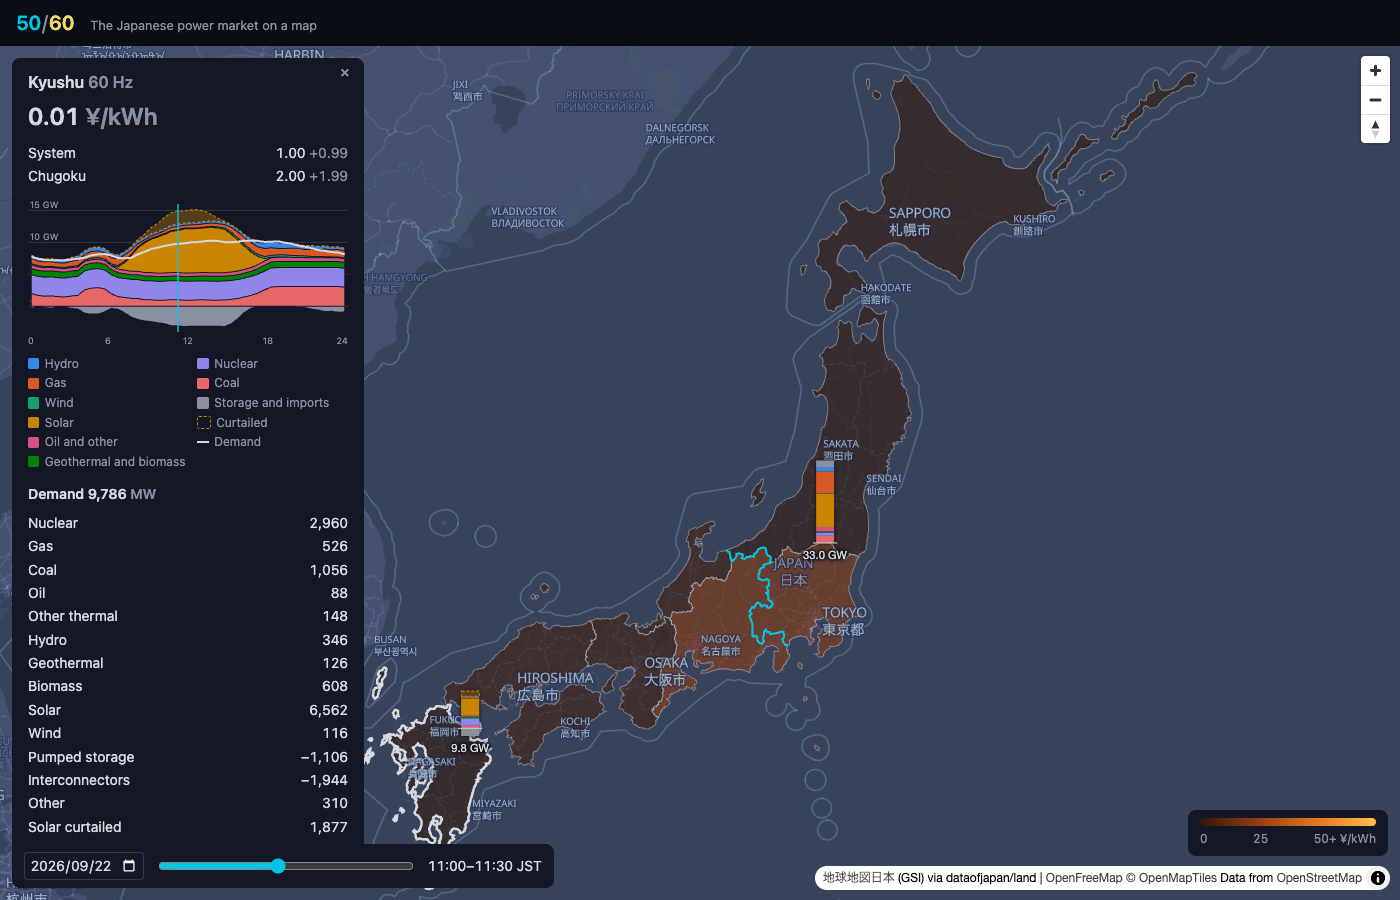
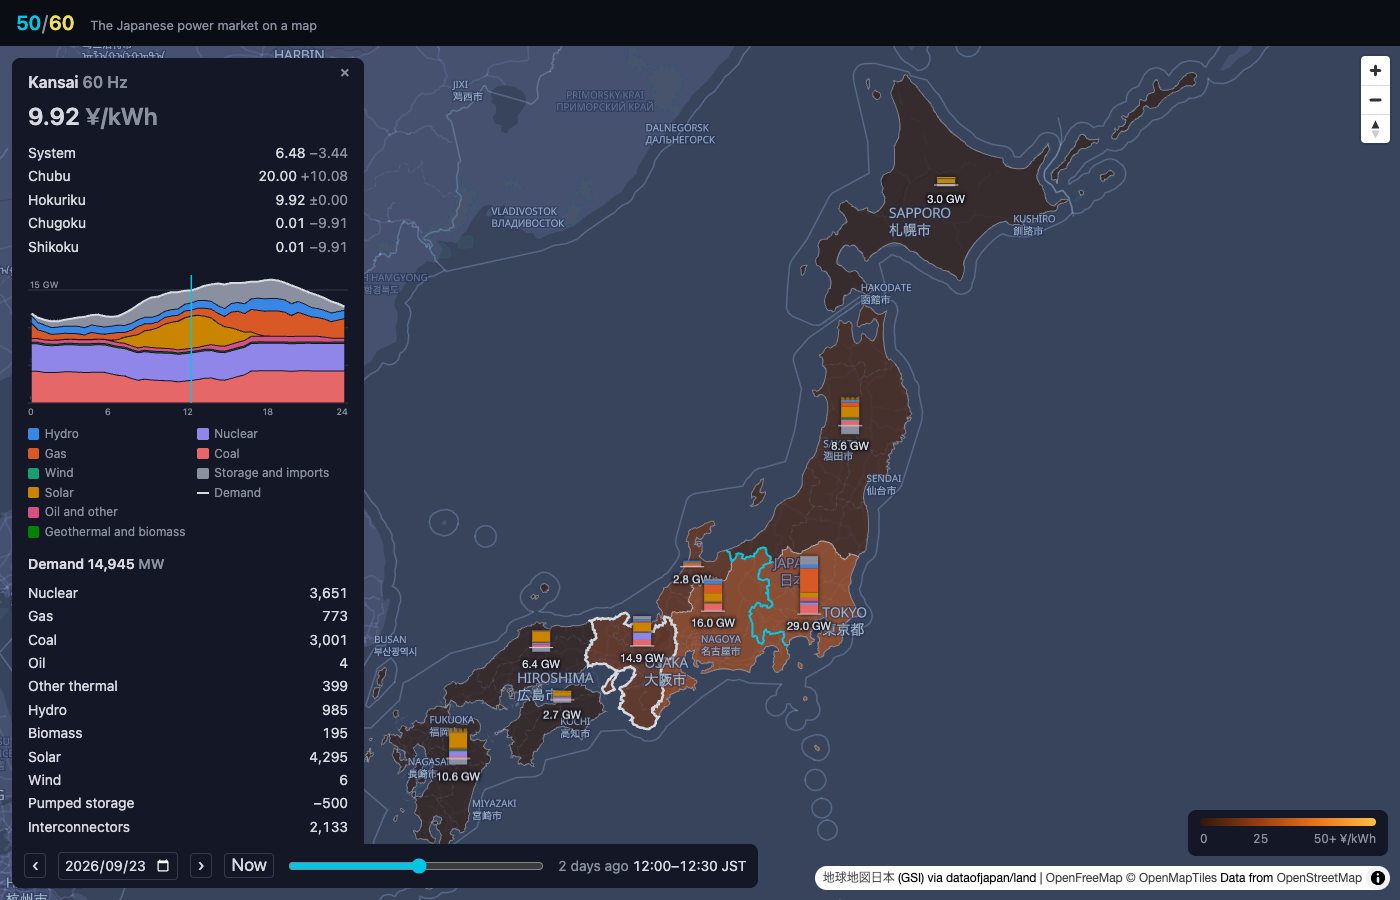
The M2 captures retaken from the deployed site with every area's column

diff --git a/docs/screenshots/README.md b/docs/screenshots/README.md
@@ -6,11 +6,11 @@ One capture per milestone, taken with [`scripts/screenshot.mjs`](../../scripts/s
 
 ![What ran](002-what-ran.png)
 
-Kyushu picked on 2026-09-22 at 11:00, a curtailed noon: the area cleared at 0.01 ¥/kWh against a system price of 1.00, and the readout draws the day's supply stack under the demand line with the solar hump in yellow and the curtailed part hatched on top of it, pumping and exports in gray below zero. The numbers for the half hour follow. On the map, a column beside each recorded area, Tokyo and Kyushu so far, shows the same mix with the demand as its height.
+Noon on 2026-09-23, with every area's record in: a column beside each of the nine shows what ran in that half hour, the chart's bands stacked with the demand as the height, 29.0 GW in Tokyo down to 2.7 GW in Shikoku. Kansai is picked: it cleared at 9.92 ¥/kWh while Chugoku and Shikoku next door sat at 0.01 and Chubu at 20.00, the west split three ways by the lines between them. The readout draws Kansai's day as the supply stack under the demand line, the half hour marked, and lists the numbers below.
 
 <img src="002-what-ran-phone.png" alt="What ran, on a phone" width="260">
 
-The same on a phone (390×844): the readout takes the upper half and scrolls, the map and the clock stay below it.
+The same noon on a phone (390×844), nothing picked, so the nine columns stand on the map with the system price above and the clock at the foot.
 
 ## 2026-09-25 · M1, the price on the map
 

diff --git a/README.md b/README.md
@@ -10,9 +10,9 @@ Unofficial demo project, built from public data; not affiliated with any exchang
 
 Live at [fiftysixty.misaki.fi](https://fiftysixty.misaki.fi). [SCOPE.md](SCOPE.md) is the plan; [ARCHITECTURE.md](ARCHITECTURE.md) explains how it works.
 
-![Kyushu picked on a curtailed noon: the areas colored by price, the day's supply stack under the demand line with the curtailed solar hatched on top, the mix in numbers, and a column of the mix beside each recorded area on the map](docs/screenshots/002-what-ran.png)
+![Noon on a September day: the nine areas colored by price with a column beside each showing what ran, Kansai picked with its price against its neighbors, the day's supply stack under the demand line, and the mix in numbers](docs/screenshots/002-what-ran.png)
 
-<img src="docs/screenshots/002-what-ran-phone.png" alt="The same site on a phone: the readout over the upper half of the map, the clock at the foot" width="260">
+<img src="docs/screenshots/002-what-ran-phone.png" alt="The same site on a phone: the nine columns on the map, the system price above, the clock at the foot" width="260">
 
 Every capture, one per milestone, is shown in [docs/screenshots](docs/screenshots/README.md).
 
